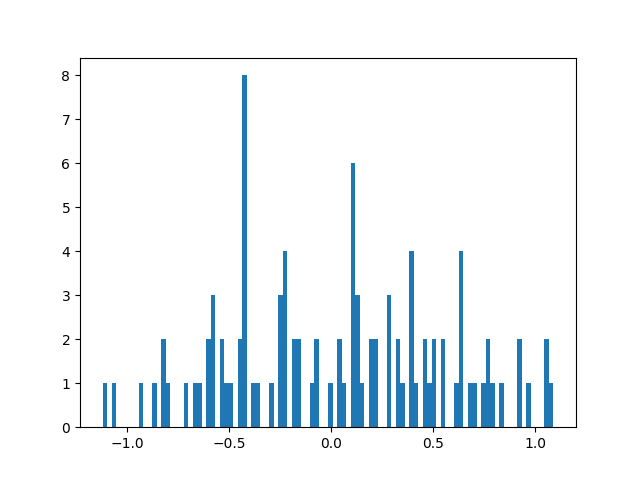
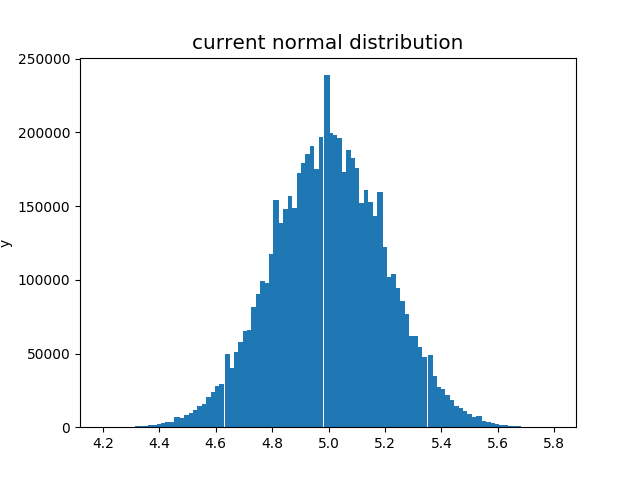
4.10.3done

diff --git a/3rd_semester/machine_learning/exercises/exercises02/4_10_3.py b/3rd_semester/machine_learning/exercises/exercises02/4_10_3.py
@@ -1,32 +1,58 @@
 import sys
 import numpy as np
 import matplotlib.pyplot as plt
+import math
 
 def my_normal_sample_generator(sample_size = 1000, mean = 0, std = 1):
     """
     Given sample size, mean and std returns an array of elements belonging to normal distribution
     """
-    all_values = np.array([])
-    for x in np.arange(mean - 4 * std, mean + 4 * std, 8 * std / 100):
-        y = 1 / np.sqrt(2 * np.pi * std ** 2) * np.e ** -(((x - mean) ** 2)/ 2 * std ** 2)
-        for i in range(int(10000 * y)):
-            all_values = np.append(all_values,[x])
+    all_values = np.array([], dtype = "float16")
+    for x in np.arange(mean - 4 * std, mean + 4 * std, 8 * std / 1000):
+        y = 1 / math.sqrt(2 * np.pi * std ** 2) * np.e ** (-1 * (((x - mean) ** 2) / (2 * (std ** 2))))
+        current_values = np.full(shape = int(y * 10000), fill_value = x, dtype = "float16")
+        all_values = np.append(all_values, current_values)
 
+    fig, axes = plt.subplots()
+    plt.style.use("ggplot")
+    axes.hist(all_values, bins = 100)
+    axes.set_ylabel("y")
+    axes.set_title("current normal distribution")
+    fig.savefig("lets_see.png")
     # final sampling
     indexes_array = np.random.randint(0, len(all_values), sample_size)
     return all_values[indexes_array]
 
-if __name__ == "__main__":
-    mean, std = sys.argv[1:3]
-    sample_size = int(input("Give me sample size! "))
-    normal_sample = my_normal_sample_generator(sample_size, float(mean), float(std))
+def prob_for_known_parameters(mean, std):
+    return 1 / math.sqrt(2 * np.pi * std ** 2) * np.e ** (-1 * (((x - mean) ** 2) / (2 * (std ** 2))))
+
+def solution_3():
+    mean = float(input("give me mean: "))
+    std = float(input("give me std: "))
+    sample_size = int(input("give me sample size: "))
+    normal_sample = my_normal_sample_generator(sample_size, mean, std)
     
     m = np.mean(normal_sample)
-    s = np.sum((normal_sample - m)**2) / len(normal_sample)
+    s2 = np.sum((normal_sample - m) ** 2) / len(normal_sample)
     print(f"m = {m}")
-    print(f"s2 = {s}")
+    print(f"s2 = {s2}")
+    # needs bayes
+    bayes = (sample_size / np.var(normal_sample)) / ((sample_size / np.var(normal_sample)) + (1 / std**2)) * m + (1 / std**2) / (sample_size / np.var(normal_sample) + 1 / std**2) * mean ## according to 4.18
+    print(f"bayes = {bayes}")
 
-    fig, axes = plt.subplots()
-    plt.style.use("ggplot")
-    axes.hist(normal_sample, bins = 100)
-    fig.savefig("lets_see.png")
+def solution_6():
+    mean1 = float(input("give me mean1: "))
+    std1 = float(input("give me std1: "))
+    sample_size1 = int(input("give me sample size1: "))
+    normal_sample1 = my_normal_sample_generator(sample_size1, mean1, std1)
+
+    mean2 = float(input("give me mean2: "))
+    std2 = float(input("give me std2: "))
+    sample_size2 = int(input("give me sample size2: "))
+    normal_sample2 = my_normal_sample_generator(sample_size2, mean2, std2)
+
+if __name__ == "__main__":
+    if sys.argv[1] == "3":
+        solution_3()
+    else:
+        solution_6()
